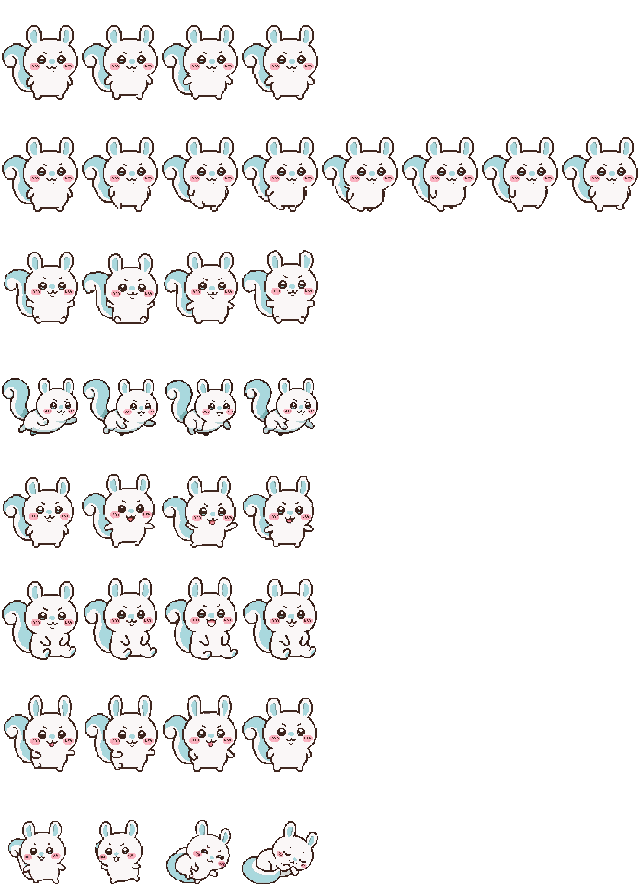
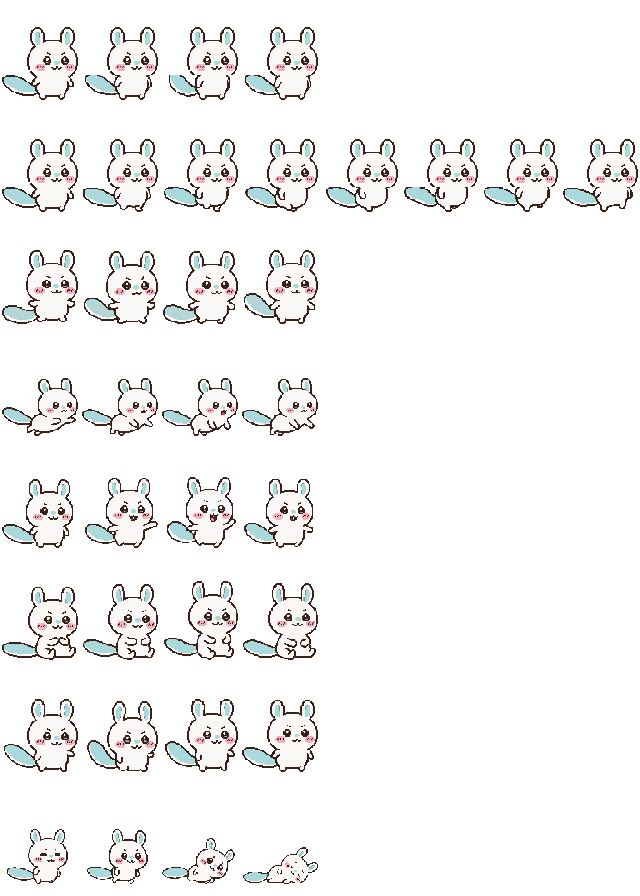
Release 0.3.14 with a round paw on the handle and Momonga's flying-squirrel tail
The swing paw was three MagicPixel rectangles drawn at ItemLocation, which
vanilla uses as the sprite's bottom corner for swung items, so a square box
floated past the pommel. Draw a round paw on the sheets' half-pixel grid and
move it, with the arm line, a few pixels up the handle along the rotated
item diagonal.

Momonga's PixelLab prompt asked for a tail curling up behind the body, a
tree squirrel's. Regenerate all 36 frames from the approved face with a
broad flat flying-squirrel tail held low behind the hips, and refresh the
README screenshot.

diff --git a/Riakawa/CharacterHands.cs b/Riakawa/CharacterHands.cs
@@ -62,12 +62,22 @@ public sealed class CharacterHands : PlayerDrawLayer
             player.direction*player.gravDir*(angle-ArmRest), origin, .5f, effects, 0));
     }
 
+    // Vanilla draws swung items from their bottom corner (DrawPlayer_27_HeldItem); the hand closes a few pixels up the handle.
+    private const float GripInset = 4f; // ponytail: calibration knob, tune from swing captures
+    internal static Vector2 Grip(in PlayerDrawSet draw)
+    {
+        var player = draw.drawPlayer;
+        if (player.HeldItem.useStyle != ItemUseStyleID.Swing) return draw.ItemLocation;
+        return draw.ItemLocation + new Vector2(player.direction, -player.gravDir).RotatedBy(player.itemRotation)
+            * GripInset * player.GetAdjustedItemScale(player.HeldItem);
+    }
+
     internal static void Arm(ref PlayerDrawSet draw)
     {
         if (!Active(draw) || DoroArmActive(draw)) return;
         var player=draw.drawPlayer;
         bool doro=player.GetModPlayer<RiakawaPlayer>().Character==Character.Doro;
-        var hand=draw.ItemLocation-Main.screenPosition;
+        var hand=Grip(draw)-Main.screenPosition;
         // Doro's near paw is cut from the body sprite while it swings, so it starts at that paw's shoulder.
         int side=doro?8:10,height=doro?17:13;
         var shoulder=draw.Position+player.legPosition-Main.screenPosition+new Vector2(player.width/2f+player.direction*side,
@@ -87,13 +97,15 @@ public sealed class CharacterHands : PlayerDrawLayer
     {
         if (DoroArmActive(drawInfo)) { DoroArm(ref drawInfo); return; }
         Colors(drawInfo,out var outline,out var fill);
-        var hand=drawInfo.ItemLocation-Main.screenPosition;
         var relative=drawInfo.ItemLocation-drawInfo.Position;
         if (relative.LengthSquared()>100*100) return;
-        PixelBox(ref drawInfo,hand,new Vector2(5,3),outline);
-        PixelBox(ref drawInfo,hand,new Vector2(3,5),outline);
-        PixelBox(ref drawInfo,hand,new Vector2(3,3),fill);
+        // Round paw on the sheets' half-pixel grid (80px art drawn at 0.5): 5px disc, 1px outline.
+        var hand=((Grip(drawInfo)-Main.screenPosition)*2).Floor()/2;
+        foreach (var size in PawOutline) PixelBox(ref drawInfo,hand,size,outline);
+        foreach (var size in PawFill) PixelBox(ref drawInfo,hand,size,fill);
     }
+
+    private static readonly Vector2[] PawOutline=[new(5,2),new(4,4),new(2,5)],PawFill=[new(3,2),new(2,3)];
 
     private static void Colors(in PlayerDrawSet draw,out Color outline,out Color fill)
     {
@@ -104,6 +116,6 @@ public sealed class CharacterHands : PlayerDrawLayer
     }
 
     private static void PixelBox(ref PlayerDrawSet draw,Vector2 position,Vector2 size,Color color)
-        => draw.DrawDataCache.Add(new DrawData(TextureAssets.MagicPixel.Value,position.Floor(),new Rectangle(0,0,1,1),color,0,
+        => draw.DrawDataCache.Add(new DrawData(TextureAssets.MagicPixel.Value,position,new Rectangle(0,0,1,1),color,0,
             new Vector2(.5f),size,SpriteEffects.None,0));
 }
